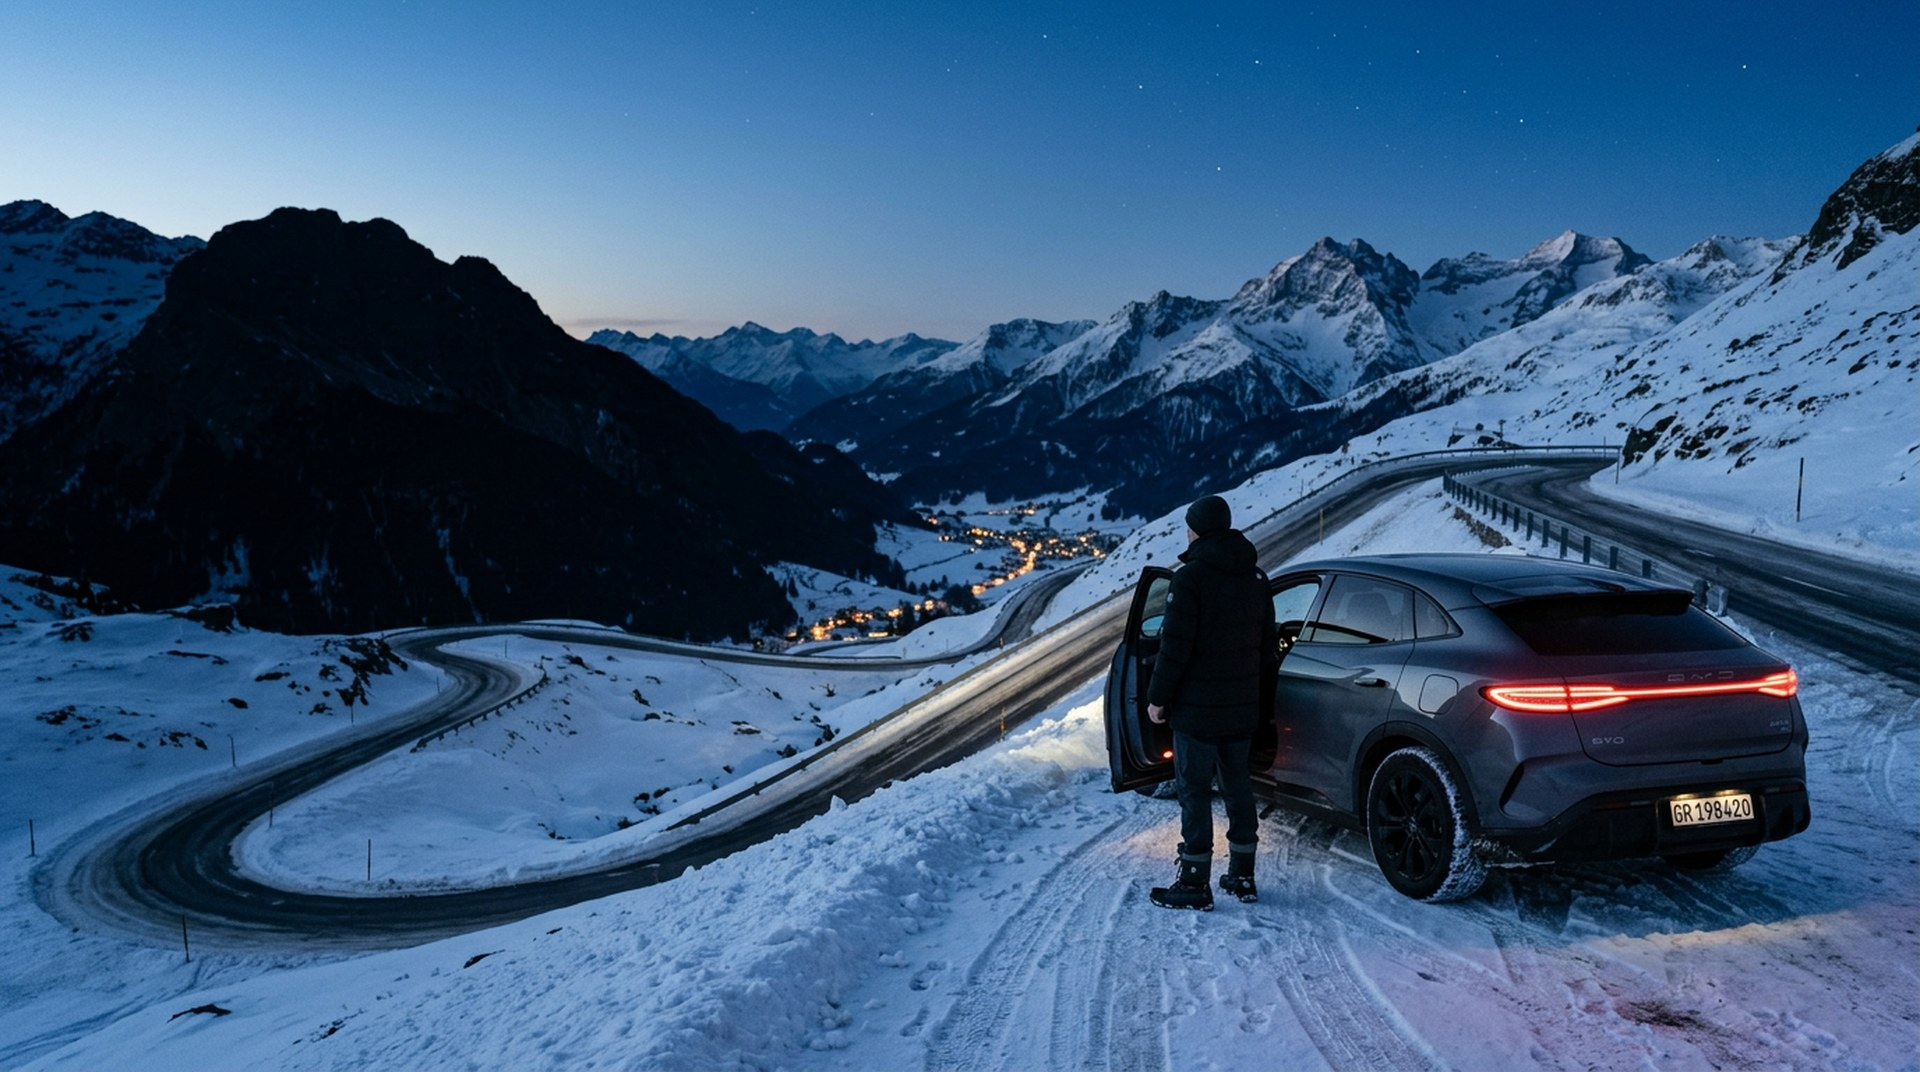
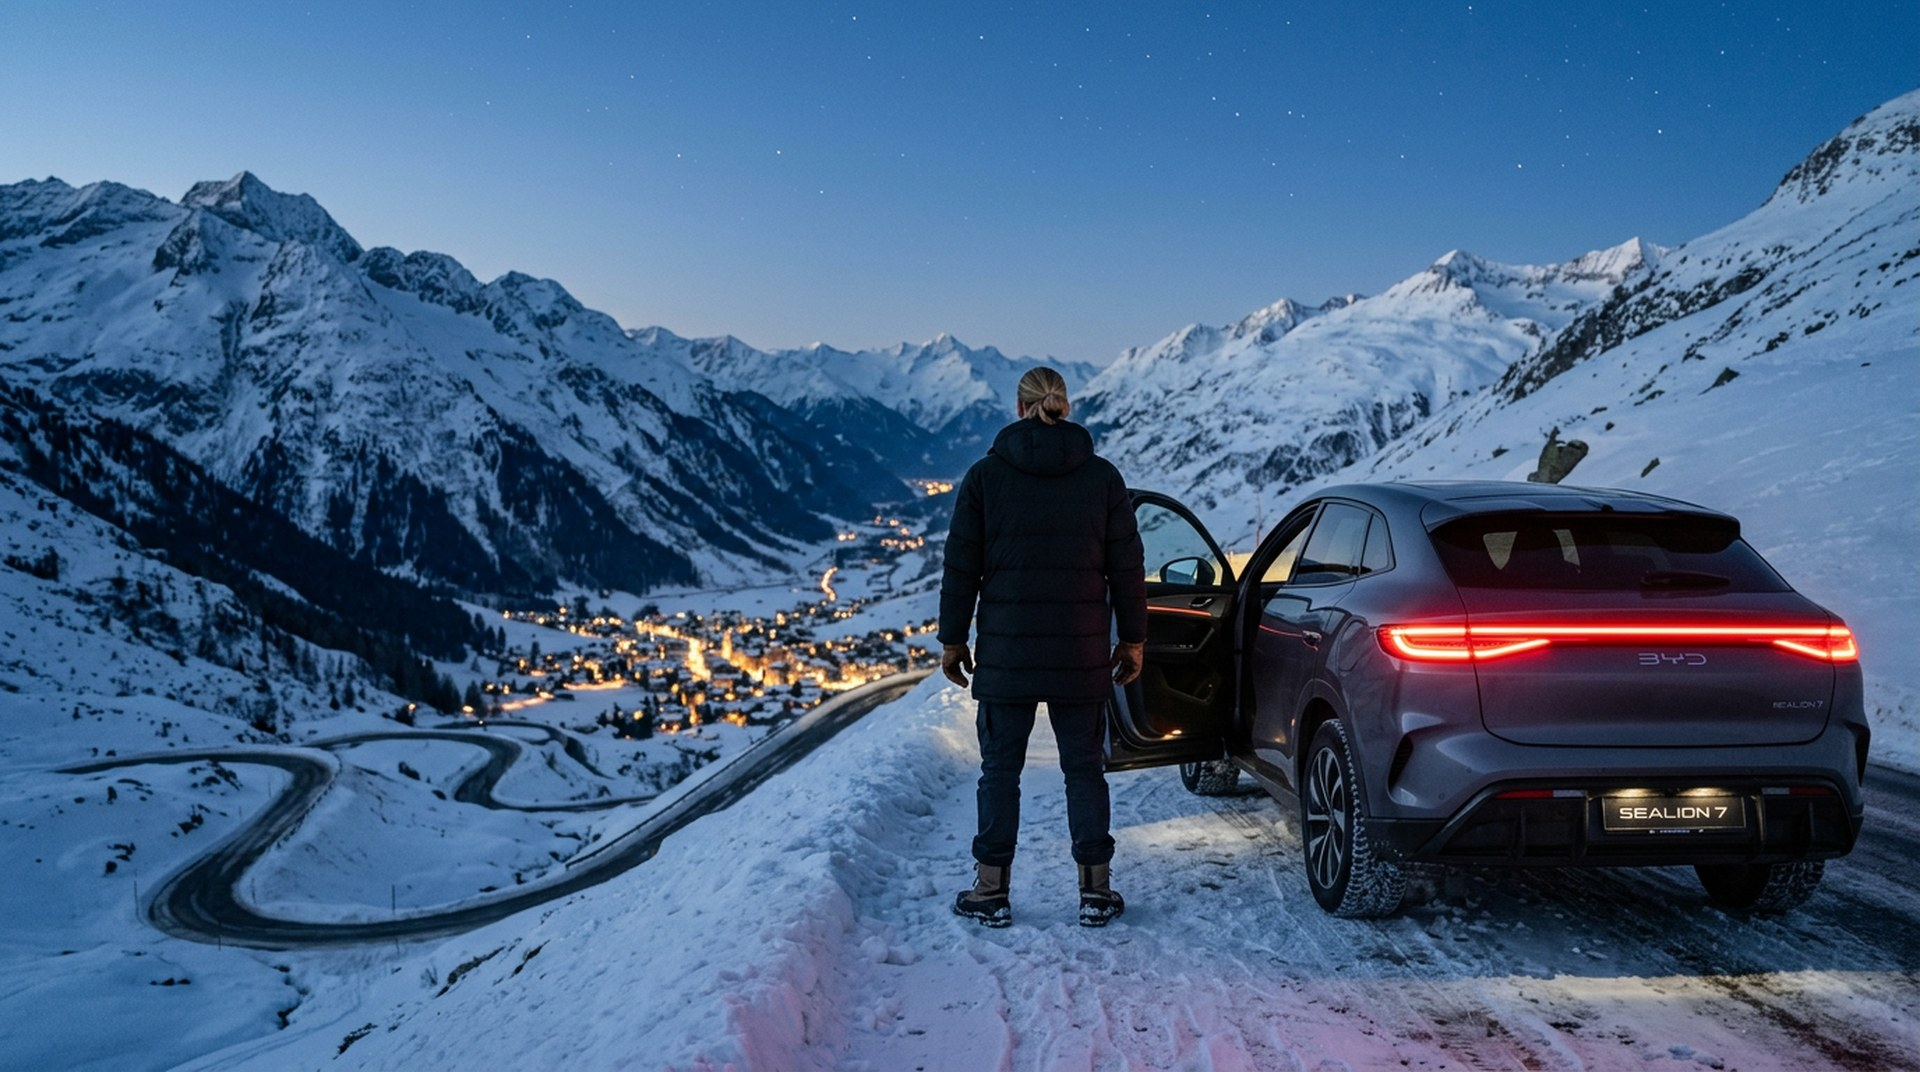
BYD Switzerland: host from behind, new hero and fondue images
Claude-Session: https://claude.ai/code/session_01JaJFHWCeuy921v2uA5x2eY

diff --git a/public/byd-switzerland/index.html b/public/byd-switzerland/index.html
@@ -33,7 +33,7 @@ body.idle #bar{opacity:0}
 <div id="progress"></div>
 <div id="viewport"><div id="stage">
 <section id="idea" class="slide" style="font-family:'Inter', Arial, sans-serif;background:#0B0F14;color:#F2EEE8;">
-<img src="media/hero.jpg" alt="The host in a winter parka next to a BYD Sealion 7 on a snowy Swiss mountain pass at blue hour" style="position:absolute;left:0px;top:0px;width:1920px;height:1080px;object-fit:cover">
+<img src="media/hero.jpg" alt="The host, seen from behind in a winter parka, next to a BYD Sealion 7 on a snowy Swiss mountain pass at blue hour" style="position:absolute;left:160px;top:0px;width:1920px;height:1080px;object-fit:cover"><div style="position:absolute;left:0px;top:0px;width:520px;height:1080px;background:linear-gradient(90deg, #0B0F14 0%, #0B0F14 32%, rgba(11,15,20,0) 100%)"></div>
 <div style="position:absolute;left:0px;top:0px;width:1920px;height:1080px;background:linear-gradient(90deg, rgba(11,15,20,0.94) 0%, rgba(11,15,20,0.82) 34%, rgba(11,15,20,0.25) 58%, rgba(11,15,20,0) 72%)"></div>
 <div style="position:absolute;left:0px;top:0px;width:1920px;height:1080px;background:linear-gradient(180deg, rgba(11,15,20,0) 60%, rgba(11,15,20,0.75) 100%)"></div>
 <img src="media/ivory-logo.png" alt="Ivory Productions" style="position:absolute;right:280px;top:64px;width:140px;height:38px;object-fit:contain"><div style="position:absolute;right:258px;top:64px;width:1px;height:38px;background:rgba(242,238,232,0.55)"></div><p style="position:absolute;right:128px;top:64px;width:110px;height:38px;font-family:'Inter', Arial, sans-serif;font-size:14px;font-weight:600;line-height:19px;letter-spacing:3px;text-transform:uppercase;color:#E6E1D9;white-space:nowrap">Creative<br>Studio</p>
